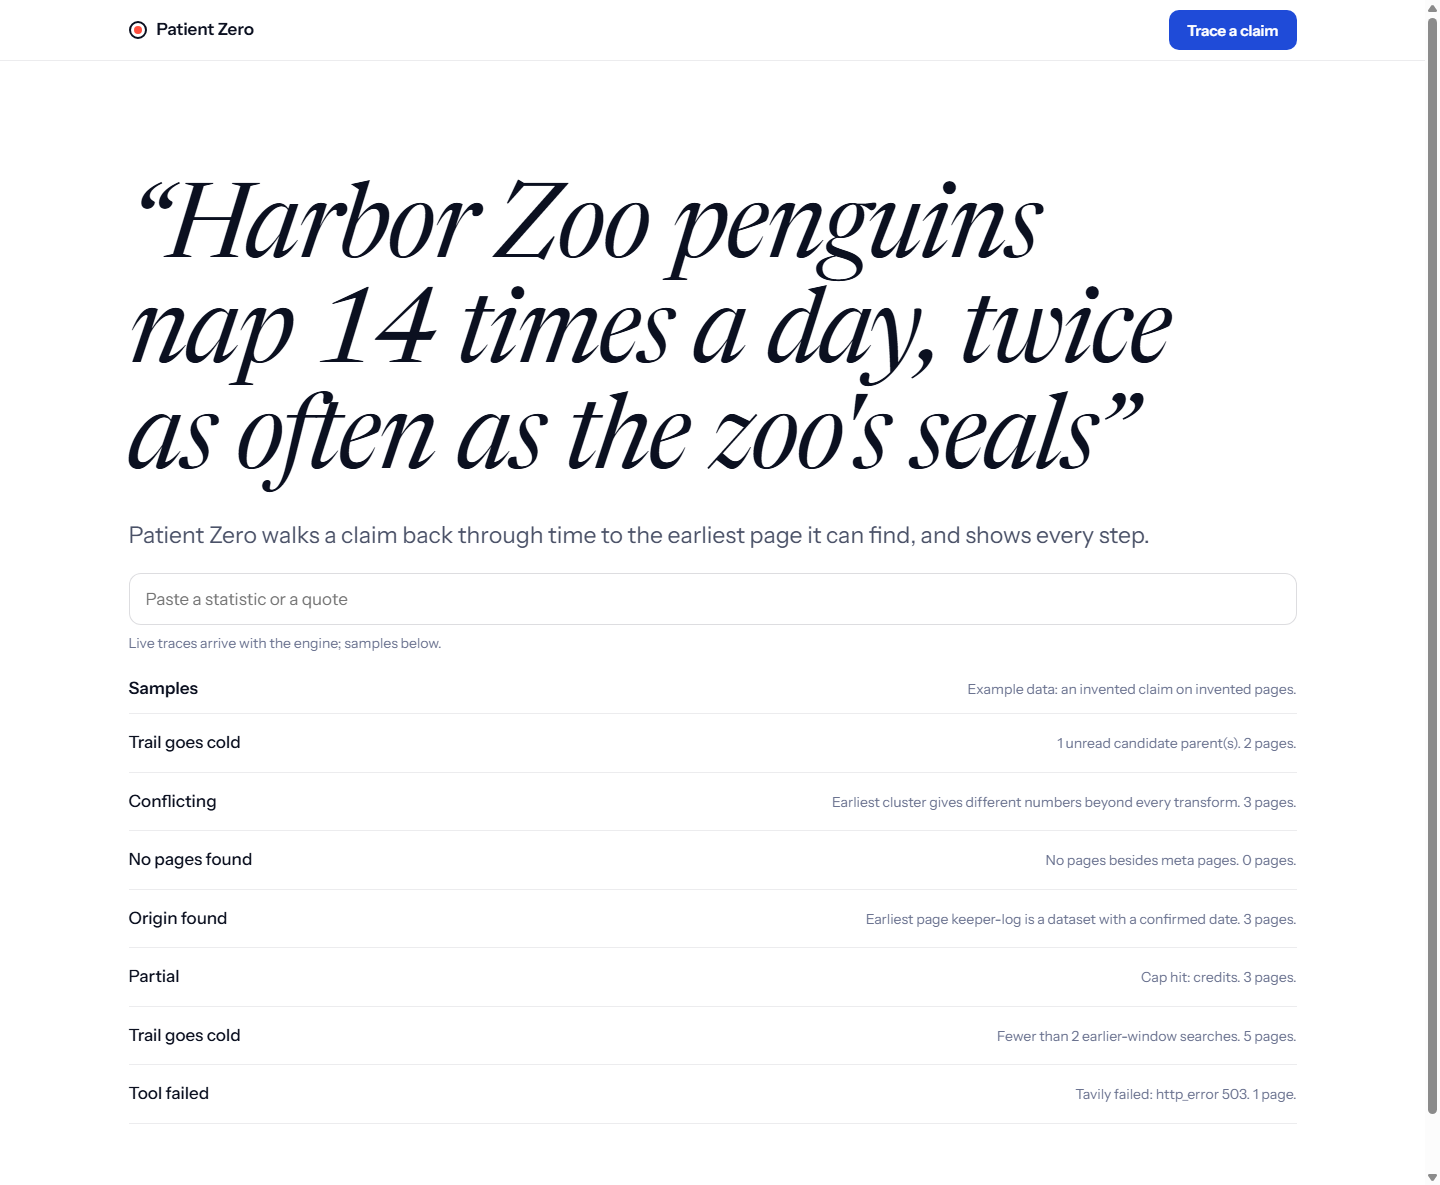
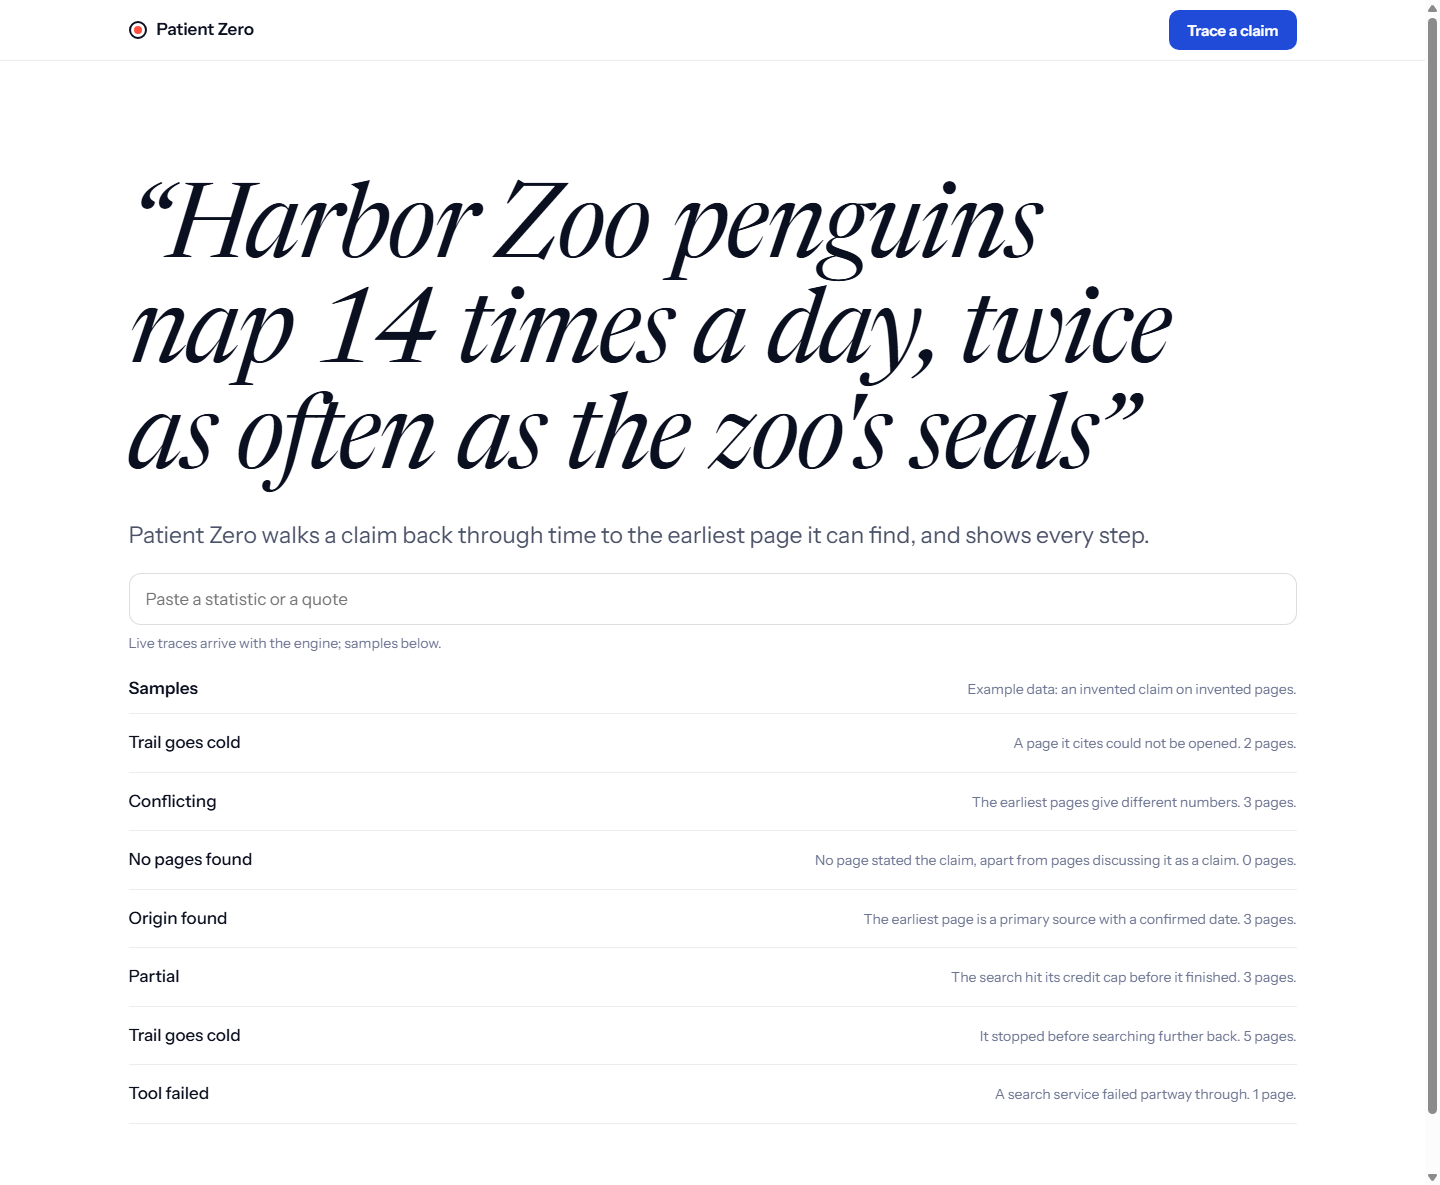
Plain ending sentences, label knockouts and stacked rows on phones

diff --git a/apps/web/src/App.tsx b/apps/web/src/App.tsx
@@ -3,6 +3,7 @@ import type { Trace } from "pz/schema";
 import { ModeBadge } from "./components/ModeBadge.tsx";
 import { TraceView } from "./components/TraceView.tsx";
 import { loadTraces } from "./data/loadTraces.ts";
+import { endingSentence } from "./model/ending.ts";
 import { parseRoute, type Route } from "./route.ts";
 
 const { traces, errors } = loadTraces();
@@ -20,8 +21,6 @@ function useRoute(): Route {
 const stateLabel = (trace: Trace) => trace.decision.state.replace(/_/g, " ");
 const sentenceCase = (text: string) => text.charAt(0).toUpperCase() + text.slice(1).toLowerCase();
 
-// The decision's own reasons, in code's words, are what tells two samples with the same ending apart.
-const reasonLine = (trace: Trace) => sentenceCase(trace.decision.reasons.join("; ") || stateLabel(trace));
 const sharedClaim = traces.length > 0 && traces.every((t) => t.claim.text === traces[0]!.claim.text) ? traces[0]!.claim.text : null;
 
 function Start() {
@@ -48,7 +47,7 @@ function Start() {
               <a className="sample" href={`#/t/${encodeURIComponent(trace.id)}`}>
                 <span className="sample-state">{sentenceCase(stateLabel(trace))}</span>
                 <span className="meta">
-                  {reasonLine(trace)}. {trace.roots.pages} {trace.roots.pages === 1 ? "page" : "pages"}.
+                  {endingSentence(trace)} {trace.roots.pages} {trace.roots.pages === 1 ? "page" : "pages"}.
                 </span>
                 {!trace.synthetic && <ModeBadge trace={trace} />}
               </a>

diff --git a/apps/web/src/model/ending.ts b/apps/web/src/model/ending.ts
@@ -1,0 +1,32 @@
+import type { Trace } from "pz/schema";
+
+const CAPS: Record<NonNullable<Trace["budget"]["capHit"]>, string> = {
+  credits: "credit cap",
+  usd: "spending cap",
+  ms: "time limit",
+  depth: "step limit",
+  frontier: "page limit",
+};
+
+// How a trace ended, as one plain sentence for the first screen. Built from the trace's own data, never from the
+// decision's reason strings, which carry ids and codes.
+export function endingSentence(trace: Trace): string {
+  switch (trace.decision.state) {
+    case "TOOL_FAILED":
+      return "A search service failed partway through.";
+    case "PARTIAL":
+      return `The search hit its ${trace.budget.capHit ? CAPS[trace.budget.capHit] : "limit"} before it finished.`;
+    case "NO_PAGES_FOUND":
+      return "No page stated the claim, apart from pages discussing it as a claim.";
+    case "CONFLICTING":
+      return "The earliest pages give different numbers.";
+    case "ORIGIN_FOUND":
+      return "The earliest page is a primary source with a confirmed date.";
+    case "TRAIL_GOES_COLD": {
+      if (trace.nodes.some((n) => n.candidateParents.some((p) => !p.read))) return "A page it cites could not be opened.";
+      // 2 is rules.json earlierWindowSearches: fewer empty earlier searches than that is a stop before looking far enough.
+      if (trace.earliest.earlierWindowSearches < 2) return "It stopped before searching further back.";
+      return "No earlier page and no primary source turned up.";
+    }
+  }
+}

diff --git a/apps/web/src/model/ending.test.ts b/apps/web/src/model/ending.test.ts
@@ -1,0 +1,27 @@
+import { describe, expect, it } from "vitest";
+import { loadTraces } from "../data/loadTraces.ts";
+import { endingSentence } from "./ending.ts";
+
+const { traces } = loadTraces();
+
+describe("endingSentence", () => {
+  it("gives every sample one plain sentence, all different, so two samples that end the same way still read apart", () => {
+    const sentences = traces.map(endingSentence);
+    expect(new Set(sentences).size).toBe(traces.length);
+  });
+
+  it("never shows ids, codes or field names on the first screen", () => {
+    for (const trace of traces) {
+      const s = endingSentence(trace);
+      for (const n of trace.nodes) expect(s).not.toContain(n.id);
+      expect(s).not.toMatch(/_|\(s\)|http_error|tavily|cap hit|\d{3}/i);
+      expect(s).toMatch(/^[A-Z].*\.$/);
+    }
+  });
+
+  it("names the cap that stopped a partial trace", () => {
+    const partial = traces.find((t) => t.decision.state === "PARTIAL")!;
+    expect(endingSentence(partial)).toBe("The search hit its credit cap before it finished.");
+    expect(endingSentence({ ...partial, budget: { ...partial.budget, capHit: "ms" } })).toBe("The search hit its time limit before it finished.");
+  });
+});

diff --git a/apps/web/src/styles/trace.css b/apps/web/src/styles/trace.css
@@ -176,6 +176,10 @@
 .disc-label {
   position: absolute;
   bottom: calc(var(--disc) / 2 + 6px);
+  padding: 0 4px;
+  border-radius: 4px;
+  /* A knockout in the band's own light so a label never sits on a link line. */
+  background: color-mix(in srgb, var(--surface) 82%, transparent);
   color: var(--ink-2);
   font-size: 13px;
   font-weight: 600;

diff --git a/apps/web/src/styles/tokens.css b/apps/web/src/styles/tokens.css
@@ -357,3 +357,11 @@ a {
   color: var(--ink-2);
   font-size: 15px;
 }
+
+@media (max-width: 600px) {
+  /* Stacked on a phone: the ending, then its sentence, aligned on the left. */
+  .sample {
+    flex-direction: column;
+    align-items: flex-start;
+  }
+}

diff --git a/plan/board.md b/plan/board.md
@@ -105,3 +105,4 @@ Decisions live only in plan/decisions.md and plan/rulings.md. The board is for c
 - [17:12 PT] AnoopIbrampur T33 on #97: make dev-score now scores E2 and E3 (when eval/dev-claims-e3.json exists, #105), one row per set
 - [09:40 PT] RishitRai #62 second #69 round: theme ramp variables for dark mode, stage under the nav, claim as the start hero, rows told apart by their reasons
 - [09:43 PT] RishitRai #82 review notes: walkStep builds per-run deps, carries mode/recordedAt/synthetic/usage, allows warm-cache runs, leaves dates and ordering to the dating stage
+- [10:05 PT] RishitRai #62 fixes: plain ending sentences on the start page (no ids or codes), knockout behind band labels, sample rows stacked on phones
